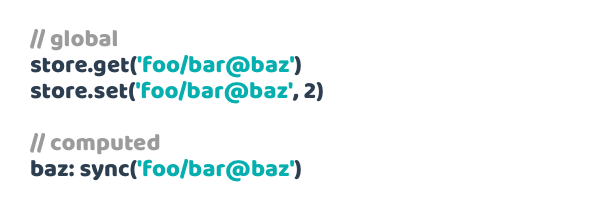
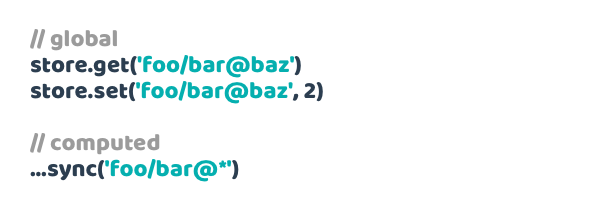
Readme improvements

Changed region(s): [[0.03, 0.7536, 0.51, 0.8986]]

diff --git a/demo/src/views/pages/Large.vue b/demo/src/views/pages/Large.vue
@@ -149,7 +149,7 @@ mutations: make.mutations(state)
             "Blocks": "computed",
             "Component code": "sync",
             "Store code": "state, make.mutations",
-            "Total": 7
+            "Total": 6
           },
           {
             "Approach": "Vuex helpers (light)",
@@ -158,7 +158,7 @@ mutations: make.mutations(state)
             "Blocks": "computed, methods",
             "Component code": "mapState, mapMutations",
             "Store code": "state, mutations, functions, assignment",
-            "Total": 13
+            "Total": 12
           },
           {
             "Approach": "Vue computed (light)",
@@ -167,7 +167,7 @@ mutations: make.mutations(state)
             "Blocks": "computed",
             "Component code": "functions, compound functions, state syntax, commit",
             "Store code": "state, mutations, functions, assignment",
-            "Total": 13
+            "Total": 12
           },
           {
             "Approach": "Vuex helpers (full)",
@@ -176,7 +176,7 @@ mutations: make.mutations(state)
             "Blocks": "computed, methods",
             "Component code": "mapGetters, mapActions",
             "Store code": "state, mutations, getters, actions, functions, assignment",
-            "Total": 16
+            "Total": 15
           },
           {
             "Approach": "Vue computed (full)",
@@ -185,7 +185,7 @@ mutations: make.mutations(state)
             "Blocks": "computed",
             "Component code": "functions, compound functions, getter syntax, dispatch",
             "Store code": "state, mutations, getters, actions, functions, assignment",
-            "Total": 16
+            "Total": 15
           }
         ]
       }

diff --git a/demo/src/views/pages/Typical.vue b/demo/src/views/pages/Typical.vue
@@ -83,7 +83,7 @@
             "Blocks": "computed",
             "Component code": "get, sync",
             "Store code": "state, make.mutations",
-            "Total": 6
+            "Total": 7
           },
           {
             "Approach": "Vue Computed (light)",
@@ -92,7 +92,7 @@
             "Blocks": "computed",
             "Component code": "function, compound function, state syntax, getter syntax, commit, payload",
             "Store code": "state, mutations, functions, assignment, destructuring, array access",
-            "Total": 14
+            "Total": 16
           },
           {
             "Approach": "Vuex Helpers (light)",
@@ -101,7 +101,7 @@
             "Blocks": "computed, methods",
             "Component code": "mapState, mapGetters, mapMutations, deep watch",
             "Store code": "state, mutations, functions, assignment, destructuring, array access",
-            "Total": 16
+            "Total": 18
           },
 
         ]

diff --git a/README.md b/README.md
@@ -16,18 +16,18 @@ Pathify's store helpers eliminate the time, code and cost of store setup:
 ![vuex-mutations](docs/assets/img/readme/pathify-make-mutations.png)
 
 
-The end result is projects with up to [14+ times less store and wiring code](https://codesandbox.io/s/github/davestewart/vuex-pathify/tree/master/demo?initialpath=code/large)  and significantly less cognitive overhead.
+The end result is projects with up to [14+ times less Vuex code](https://codesandbox.io/s/github/davestewart/vuex-pathify/tree/master/demo?initialpath=code/large)  and significantly less cognitive overhead.
 
 
 ## Pathify API
 
-Let's look a little more closely at the code needed to do this.
+Let's look a little closer at the above example.
 
-Our example store has **module**, **property** and **sub-property** nodes:
+The store has **module**, **property** and **sub-property** nodes:
 
 ![vuex-store](docs/assets/img/readme/vuex-store.png)
 
-The store is made **writeable** in an instant, via Pathify's one-liner [store helpers]:
+Pathify's one-liner [store helpers] generate mutations **automatically**:
 
 ![pathify-mutations](docs/assets/img/readme/pathify-mutations.png)
 
@@ -35,7 +35,7 @@ Pathify's [store accessors] handle global **I/O** whilst [component helpers] han
 
 ![pathify-code](docs/assets/img/readme/pathify-code.png)
 
-Using Pathify's [path syntax], sub-properties are accessed using the `@` symbol, whilst multiple properties can be wired using object, array, or even wildcard `*` syntax, which wires entire groups of properties automatically.
+Pathify's [path syntax] provides sub-property access via the `@` symbol, with wildcard `*` syntax wiring entire groups of properties or sub-properties automatically.
 
 
 ## Comparing to Vuex
@@ -52,7 +52,10 @@ Component wiring can require up to 4 different helpers, name juggling, plus addi
 
 ![vuex-helpers](docs/assets/img/readme/vuex-helpers.png)
 
-An entire section of Pathify's demo site has been devoted to comparing what could be considered both [typical](https://codesandbox.io/s/github/davestewart/vuex-pathify/tree/master/demo?initialpath=code/typical) and [large](https://codesandbox.io/s/github/davestewart/vuex-pathify/tree/master/demo?initialpath=code/large) components across a variety of Pathify and Vuex setups, and finds Pathify setups coming in between 2 and 15 times less code than vanilla Vuex.
+An entire section of Pathify's demo site has been devoted to comparing what could be considered both [typical](https://codesandbox.io/s/github/davestewart/vuex-pathify/tree/master/demo?initialpath=code/typical) and [large](https://codesandbox.io/s/github/davestewart/vuex-pathify/tree/master/demo?initialpath=code/large) components across a variety of Pathify and Vuex setups, and finds Pathify:
+ 
+ - can use anything between 2 and 14 times less code than vanilla Vuex
+ - can be up to 2.5 times less complex, using a core of only 6 or 7 different naming, syntax or coding entities, compared to Vuex's maximum of 15 / 18
 
 
 ## Next steps
